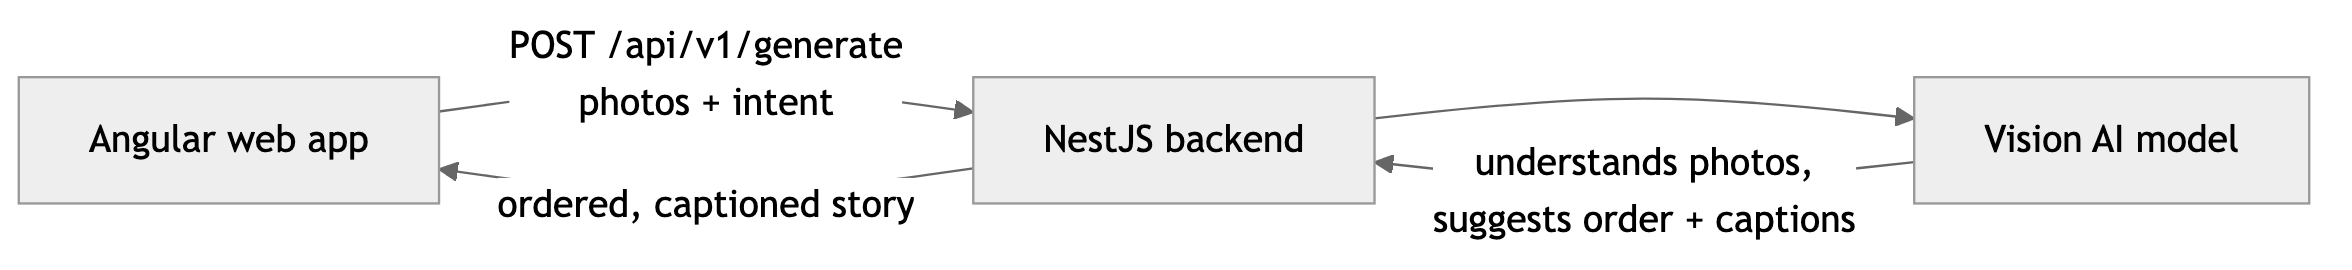
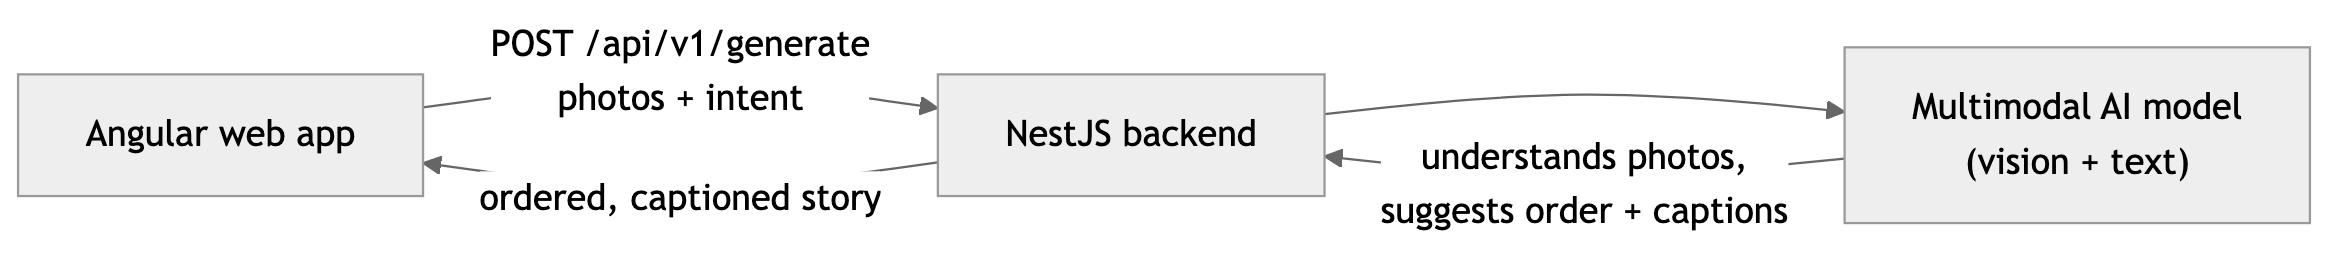
docs: plan Phase 2 longer stories (async queue + describe-then-decide pipeline)
Phase 2 raises the pick to 30 photos so the AI selects the best frames, not
just orders a pre-trimmed set. To survive Render's request timeout, generation
becomes an async job:

- decisions.md Chapter 6 (6.1-6.5): async job + 202/jobId, single-container
  in-memory queue, SSE result delivery (not polling/webhook), downscale harder
  to fit the body cap, and the describe-then-decide pipeline for >10 photos
  (ceil(N/10) describe+rate calls -> one text decide call; <=10 stays the
  Phase 1 single call).
- phase-2/spec.md: new scope item + System architecture section with diagram.
- phase-2/open-questions.md: resolve the single-call-vs-pipeline question.
- phase-2 system-architecture diagram (Angular -> NestJS backend w/ in-memory
  queue -> multimodal AI model).
- Rename the Phase 1 diagram's model box to "Multimodal AI model (vision + text)"
  for consistency (+ alt text).

diff --git a/docs/decisions.md b/docs/decisions.md
@@ -8,7 +8,8 @@ How this project was thought through, in chapters, so a reader can jump to the p
 3. [Locking the Phase 1 architecture](#chapter-3--locking-the-phase-1-architecture)
 4. [Production readiness](#chapter-4--production-readiness)
 5. [Design system](#chapter-5--design-system)
-6. [Lessons learned](#chapter-6--lessons-learned)
+6. [Phase 2 — longer stories without timing out](#chapter-6--phase-2-longer-stories-without-timing-out)
+7. [Lessons learned](#chapter-7--lessons-learned)
 
 ---
 
@@ -510,7 +511,42 @@ Resolving the production-readiness gaps the engineering review surfaced — what
 - **Decision:** Option 2. Render the current frame and its immediate neighbours as stacked layers, kept mounted with `opacity-0` (not `display:none`, which can skip decode). Only the current layer is opaque and the swap has no transition. At most 3 photos are mounted.
 - **Why:** A neighbour is already decoded before it becomes current, so paging swaps a ready image and the photo and the highlighted segment advance in the same paint — no lag, no bar/photo mismatch. Keeping the full-res original avoids a second image pipeline; the originals stay for a future export. Downscaling (option 1) is deferred until the export path exists.
 
-# Chapter 6 — Lessons learned
+# Chapter 6 — Phase 2: longer stories without timing out
+
+The value in [2.4](#24-how-many-photos-can-the-user-bring-in) is the AI picking the best frames from a real camera-roll dump. Phase 1 decided **30** photos for that but ships **10** (commit `c5525bf`, "cap the photo pick back for a stable deploy"): a single synchronous request has the vision model process every photo while the browser holds the connection open, and at 30 that runtime competes with Render's request timeout and drops on cold start. Phase 2 removes that constraint so 30 can ship for real.
+
+### 6.1 Restore the 30-photo cap by generating as an async job
+- **Problem:** At 30 photos the model's runtime on one request is long enough to hit Render's proxy/idle request timeout and to drop if the free container cold-starts or the mobile connection closes. The synchronous request/response that worked for 10 photos (3.3) doesn't survive 30.
+- **Options:** keep 10, synchronous; send 30 but stay synchronous and hope it fits the timeout; send 30 and process it as an async background job.
+- **Decision:** 30, as an async job. `POST /api/v1/generate` enqueues the work and returns **`202 { jobId }`** immediately; a background worker runs the Gemini call; the finished frames are delivered when ready (6.3).
+- **Why:** It decouples the HTTP request from the model's runtime, so generation time no longer competes with the request timeout or with keeping a mobile connection open. This is what lets the 30-cap value decided in 2.4 actually ship — the synchronous path is why it was pulled back to 10.
+
+### 6.2 In-memory queue, single worker — not Redis/BullMQ yet
+- **Problem:** The job has to live somewhere between enqueue and completion, with its status readable while it runs.
+- **Options:** a durable external queue (Redis + BullMQ); an in-process in-memory queue plus a job map.
+- **Decision:** In-memory queue with **one worker (concurrency 1)** in the single NestJS container; job state (`queued → processing → done | failed`, plus result or typed error) held in an in-memory map keyed by `jobId`.
+- **Why:** The free tier runs exactly one container, so there is nothing to coordinate across instances and an in-process queue matches the deployment (3.6). Concurrency 1 serializes jobs, which bounds memory (30 downscaled images per job, 4.5) and protects the shared free Gemini key — the same intent as the daily budget cap (4.1). **Accepted limit:** a spin-down or restart mid-job loses that job; acceptable at this stage. **Production upgrade, no API change:** swap the map/queue for Redis + BullMQ for durability across restarts and instances.
+
+### 6.3 Deliver the result over Server-Sent Events, not polling or a webhook
+- **Problem:** The client needs to learn the job finished and receive the frames (or a typed error).
+- **Options:** the client polls `GET /jobs/:id` on an interval; a webhook; a Server-Sent Events stream.
+- **Decision:** **SSE.** The client opens an `EventSource` on `GET /api/v1/jobs/:id/events`; the server pushes status transitions and the final result. On connect the server first replays the current status, so a dropped connection (e.g. a cold start) recovers. A plain `GET /jobs/:id` stays as a polling fallback.
+- **Why:** A webhook is server→server — it POSTs to a public URL, which a browser client does not have, so it cannot deliver to the Angular app; SSE is the browser-native push (`EventSource`). Against polling, SSE delivers the result the moment it is ready instead of on the next poll tick, and removes the repeated poll requests from the backend, for marginally more code. A bidirectional WebSocket is not needed — the flow is one-directional, server→client.
+
+### 6.4 Keep 30 images under the request body cap by downscaling harder
+- **Problem:** 30 downscaled proxies in one POST body can exceed the max-body cap (4.2) that 10 images fit under.
+- **Options:** raise the server body cap; downscale each proxy harder so 30 fit under the current cap.
+- **Decision:** Downscale the per-image proxy harder on the 30-photo path so the batch stays under the existing cap, rather than raising the cap. The long edge stays **above ~512px** (below that, faces and in-photo text blur and captions get less accurate — 3.4).
+- **Why:** A smaller proxy keeps the request inside a limit already validated server-side and keeps upload fast — the main latency lever (3.4) — even with more images. Raising the cap would widen the accepted body size for oversized-payload abuse for no user benefit.
+
+### 6.5 Stories over 10 photos run a describe-then-decide pipeline
+- **Problem:** The model handles ≤10 images well per call (3.4), but a 30-photo story needs every candidate judged on the same bar, then selected, ordered, and captioned — more than one 10-image call can see at once.
+- **Options:** (a) send all 30 in one call (past the ≤10 sweet spot — selection and captions degrade); (b) parallel batches scored against a fixed rubric (drifts — no batch sees the others); (c) sequential batches carrying a running shortlist (calibrates, but slower and more complex); (d) describe + rate each photo in batches of ≤10, then one text call that ranks all of them, selects, orders, and captions.
+- **Decision:** Option (d), sized to the input. **`ceil(N/10)` describe-and-rate calls** (each ≤10 images) produce a `{description, rating}` per photo; **one final "decide" call** then reasons over all N descriptions + ratings as *text* — ranking them on one bar, selecting 5–7, ordering hook-first with EXIF capture time as a soft hint (2.1), and writing each caption. **N ≤ 10 skips the batching entirely — it stays the Phase 1 single call.** Calls run sequentially (concurrency 1, 6.2).
+- **Why:** The ≤10 limit is on *images*, not text — so once each photo is a description + rating, the decide call weighs all N together in one pass and holds one consistent bar. That fixes the cross-batch-consistency problem more simply than a carried-forward shortlist (c) and more reliably than independent rubric scoring (b). Splitting describe (vision, per batch) from decide (reasons over text) keeps each call within the model's strength, and sizing to `ceil(N/10)` means a small pick pays for no extra calls.
+- **Trade-off:** captions are written in the decide call from the stage-1 *descriptions*, not by re-viewing the pixels — so the describe prompt has to capture caption-worthy specifics (who / what / the moment). If captions come out thin, the fix is a follow-up caption pass that re-sends the 5–7 finalists' images (one more call); not built now.
+
+# Chapter 7 — Lessons learned
 
 Working notes about *how* I worked on this, kept so I don't repeat the mistakes.
 

diff --git a/docs/phase-2/spec.md b/docs/phase-2/spec.md
@@ -8,6 +8,7 @@ Move a finished story from the app onto the user's Instagram Story with the leas
 ## Scope
 
 **In scope:**
+- **Longer stories — up to 30 photos, generated async.** Raise the pick from 10 to 30 so the user hands over a full camera-roll dump and the AI *selects* the best frames, not just orders a pre-trimmed set (the value in [approach 2.4](../decisions.md#24-how-many-photos-can-the-user-bring-in)). Generation runs as a background job so it can't hit Render's request timeout: `POST /api/v1/generate` returns a `jobId` immediately, an in-memory queue with one worker runs the model call, and the finished frames are pushed back over **Server-Sent Events**. Per-image proxies are downscaled harder so 30 stay under the request body cap. (Reasoning: [decisions.md Chapter 6](../decisions.md#chapter-6--phase-2-longer-stories-without-timing-out).)
 - **Build the finished frames** — in the browser, render each frame (photo + placed caption) into a shareable 1080×1920 image.
 - **Deliver the frames** — download the images (on desktop) or share them via the **Web Share API** (on mobile browsers), getting the finished frames onto the user's phone.
 - **Post via Instagram's multi-select** — the user saves the frames to their gallery, opens Instagram, taps "Select Multiple," and posts them as sequential story cards. Human-in-the-loop by design. (A web app can't deep-link into Instagram's composer the way a native app could, so this is a couple of taps more.)
@@ -17,6 +18,12 @@ Move a finished story from the app onto the user's Instagram Story with the leas
 **Out of scope:**
 - **Automatic / direct posting via the Instagram API** — needs a Business account + Facebook Page + Meta App Review; too heavy. Hand-off instead.
 - Music (audio), animated GIFs, interaction stickers — the user adds these in Instagram.
+
+## System architecture
+
+![Phase 2 system architecture: Angular web app → NestJS backend (in-memory queue) → multimodal AI model (vision + text); POST enqueues a job, the story is pushed back over SSE](diagrams/system-architecture.png)
+
+Generation is a background job so a 30-photo run can't hit Render's request timeout. `POST /api/v1/generate` enqueues the work in an **in-memory queue** (one job at a time — the free tier is a single container) and the finished story is pushed back over **Server-Sent Events**. For >10 photos the worker runs a **describe-then-decide pipeline** — `ceil(N/10)` describe-and-rate calls over batches of ≤10 images, then one call that ranks all of them on one bar, selects 5–7, orders (EXIF capture time as a soft hint), and captions; ≤10 photos stays the Phase 1 single call. (Full reasoning: [decisions Chapter 6](../decisions.md#chapter-6--phase-2-longer-stories-without-timing-out).)
 
 ## Why hand-off, not API
 Publishing programmatically requires a Business/Creator account, a linked Facebook Page, and Meta App Review (weeks). Personal accounts are excluded. The hand-off needs none of that and keeps the user in control of the final post. (Full reasoning in `decisions.md`.)

diff --git a/docs/phase-2/open-questions.md b/docs/phase-2/open-questions.md
@@ -1,3 +1,5 @@
 # Open Questions — Phase 2: Get it onto Instagram
 
 1. ~~**Do we put music in the stories?**~~ **Resolved:** music-as-audio is out of scope (Instagram-licensed, needs video + licensing). Instead the app generates **music suggestions** (mood/genre/search terms) so the user adds it easily in Instagram.
+
+2. ~~**Does one Gemini call handle 30 images well, or do we need a pipeline?**~~ **Resolved:** a **describe-then-decide pipeline** ([decisions 6.5](../decisions.md#65-stories-over-10-photos-run-a-describe-then-decide-pipeline)). `ceil(N/10)` describe-and-rate calls (≤10 images each), then one text "decide" call that ranks all N on one bar, selects 5–7, orders (EXIF soft hint), and captions from the descriptions; N ≤ 10 stays the Phase 1 single call. **Still open (sub-point):** if captions written from the descriptions read thin, add a caption pass that re-sends the 5–7 finalists' images.

diff --git a/docs/phase-1/architecture.md b/docs/phase-1/architecture.md
@@ -17,7 +17,7 @@ How Phase 1 ([spec](spec.md)) is built and deployed: a responsive **web app** wh
 
 ## System architecture
 
-![System architecture: Angular web app → NestJS backend → vision AI model](diagrams/system-architecture.png)
+![System architecture: Angular web app → NestJS backend → multimodal AI model (vision + text)](diagrams/system-architecture.png)
 
 The browser never holds the API key. The NestJS server is stateless — no database in Phase 1; a story lives only in browser memory until the user exports it (Phase 2).
 
